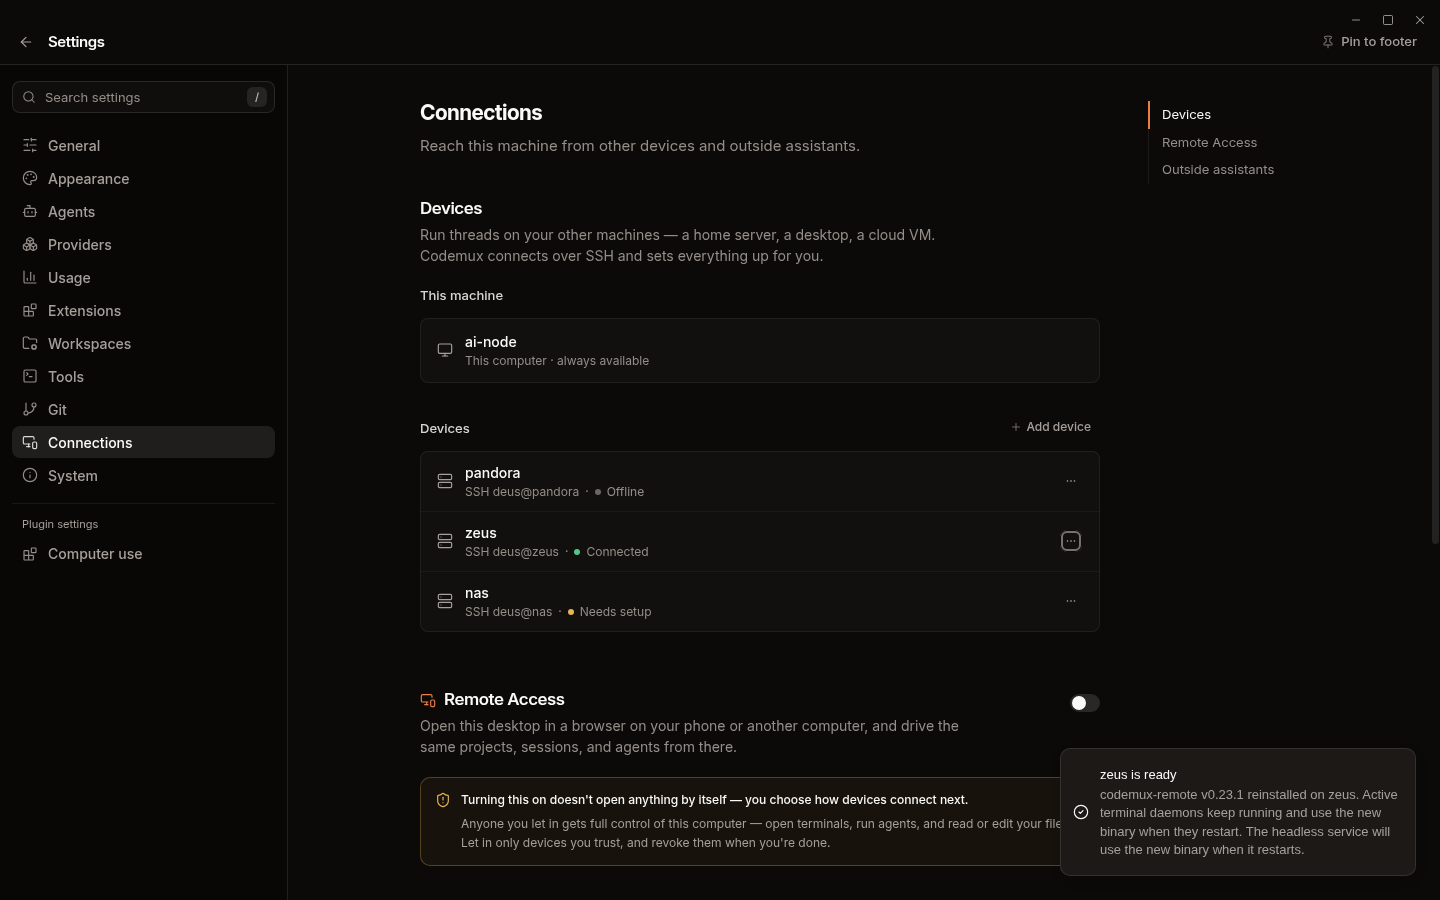
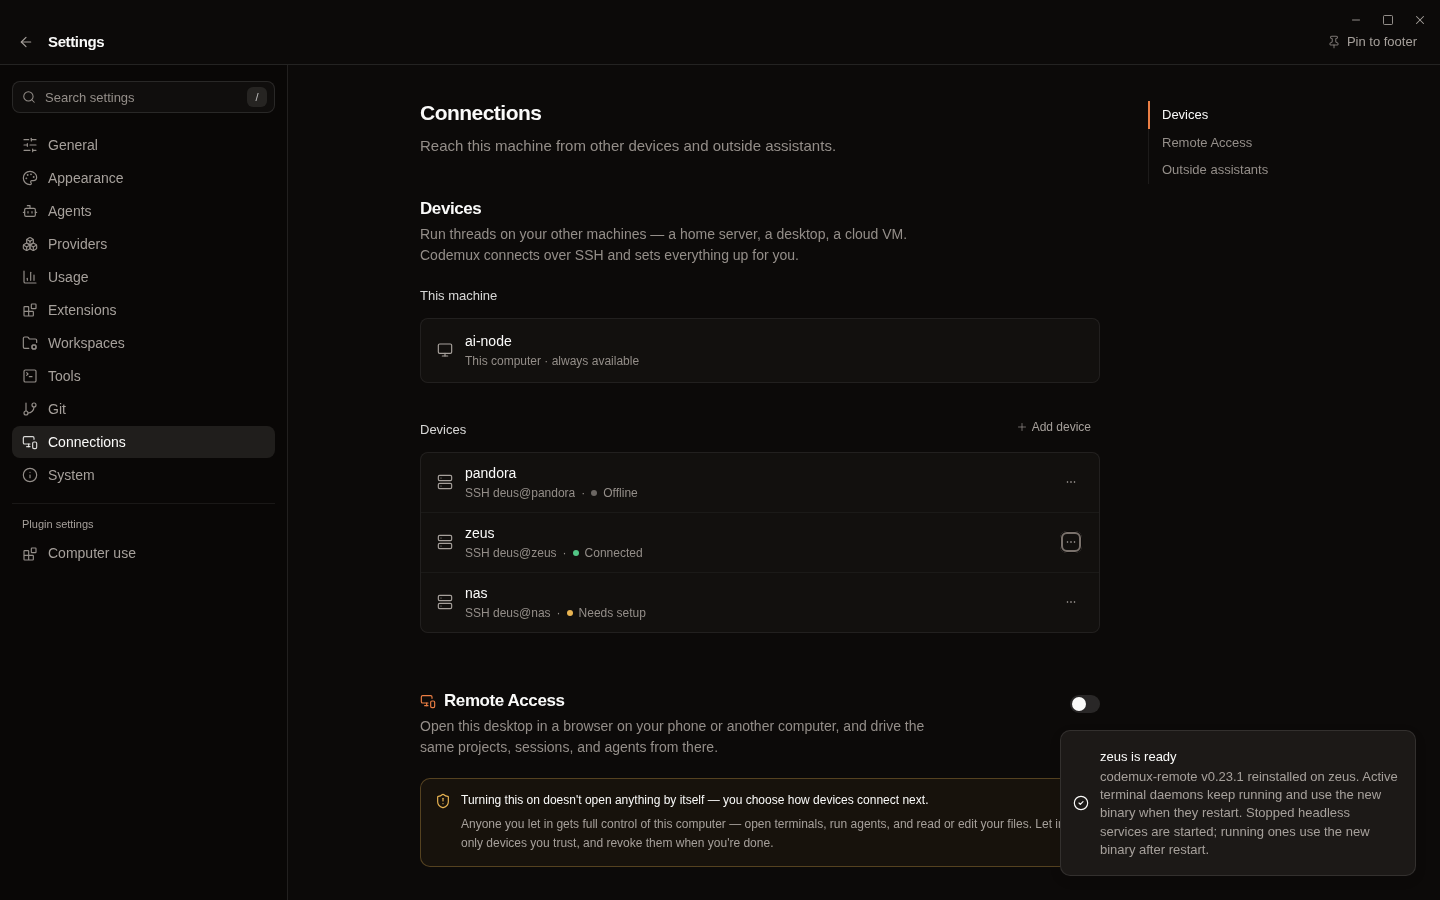
fix(remote): preserve sessions when repairing host service

diff --git a/src/dev/tauri-mock.ts b/src/dev/tauri-mock.ts
@@ -7341,7 +7341,7 @@ const handlers: Record<string, Handler> = {
       message:
         `codemux-remote v${MOCK_REMOTE_VERSION} reinstalled on ${host.name}. ` +
         "Active terminal daemons keep running and use the new binary when they restart. " +
-        "The headless service will use the new binary when it restarts.",
+        "Stopped headless services are started; running ones use the new binary after restart.",
     };
   },
 

diff --git a/src-tauri/src/commands/hosts.rs b/src-tauri/src/commands/hosts.rs
@@ -455,14 +455,15 @@ pub async fn hosts_bootstrap_install<R: tauri::Runtime>(
                     _ => String::new(),
                 };
 
-                // Always provision the headless `serve` daemon. Unlike
-                // the scheduler this needs no auth token or server id —
-                // it's a per-host local control plane. After this
+                // Enable and start the headless `serve` daemon without
+                // restarting an already-running service or its terminals.
+                // Unlike the scheduler this needs no auth token or server
+                // id — it's a per-host local control plane. After this
                 // returns successfully, an MCP-capable agent on the host
                 // that the user points at `codemux-remote mcp` can use it.
                 // Same best-effort contract: a failure logs and is
                 // surfaced in the result message, doesn't fail bootstrap.
-                let serve_note = match crate::ssh::bootstrap::provision_serve(
+                let serve_note = match crate::ssh::bootstrap::ensure_serve_running(
                     &host.ssh_target,
                     "~/.local/bin/codemux-remote",
                     std::time::Duration::from_secs(30),
@@ -530,7 +531,7 @@ pub struct HostBootstrapResult {
 #[cfg(unix)]
 pub(crate) struct RemoteReinstallOutcome {
     version: String,
-    serve_restarted: bool,
+    serve_enabled: bool,
 }
 
 /// After a successful install the device is ready: show it online now,
@@ -575,10 +576,10 @@ pub async fn hosts_reinstall_remote<R: tauri::Runtime>(
         Ok(match force_reinstall_remote_binary(&app, &host).await {
             Ok(outcome) => {
                 mark_host_ready(&app, host.id);
-                let serve_note = if outcome.serve_restarted {
-                    "The headless service restarted."
+                let serve_note = if outcome.serve_enabled {
+                    "Stopped headless services are started; running ones use the new binary after restart."
                 } else {
-                    "The headless service will use the new binary when it restarts."
+                    "The headless service could not be enabled; see logs."
                 };
                 HostBootstrapResult {
                     ok: true,
@@ -1687,9 +1688,8 @@ pub(crate) async fn ensure_remote_binary_current<R: tauri::Runtime>(
 /// built bits onto the host during development.
 ///
 /// Steps: probe uname → atomically upload and verify the bundled binary →
-/// restart the headless `serve` daemon only when it has confirmed zero live
-/// terminals. Existing PTY daemons keep their running sessions and use the
-/// new binary after they exit and restart.
+/// enable and start the headless `serve` daemon if stopped. Running services
+/// and PTY daemons keep their sessions and use the new binary when restarted.
 #[cfg(unix)]
 pub(crate) async fn force_reinstall_remote_binary<R: tauri::Runtime>(
     app: &tauri::AppHandle<R>,
@@ -1746,52 +1746,27 @@ pub(crate) async fn force_reinstall_remote_binary<R: tauri::Runtime>(
         }
     };
 
-    // Step 3: a service restart can end host-side terminals. Reuse the
-    // upgrade path's session probe so an explicit reinstall also preserves
-    // live sessions. An unknown count defers the restart as well. A failed
-    // restart remains best-effort: the binary on disk is current and takes
-    // effect on the next restart.
-    let live_sessions = crate::hosts_upgrade::probe_live_host_sessions(&host.ssh_target).await;
-    let serve_restarted = if should_restart_serve(live_sessions) {
-        match crate::ssh::bootstrap::provision_serve(
-            &host.ssh_target,
-            "~/.local/bin/codemux-remote",
-            std::time::Duration::from_secs(30),
-        )
-        .await
-        {
-            Ok(()) => {
-                eprintln!("[hosts] re-provisioned codemux-remote.service on {}", host.name);
-                true
-            }
-            Err(error) => {
-                eprintln!(
-                    "[hosts] re-provisioning serve on {} after reinstall failed (continuing): {error}",
-                    host.name
-                );
-                false
-            }
-        }
-    } else {
-        match live_sessions {
-            Some(n) => eprintln!(
-                "[hosts] deferred serve restart on {} to preserve {n} live terminal(s)",
+    // Step 3: `enable --now` starts a stopped service, including a missing
+    // unit repaired by this install, but never restarts an active one. A
+    // failure is best-effort because the binary on disk is already current.
+    let serve_enabled = match crate::ssh::bootstrap::ensure_serve_running(
+        &host.ssh_target,
+        "~/.local/bin/codemux-remote",
+        std::time::Duration::from_secs(30),
+    )
+    .await
+    {
+        Ok(()) => true,
+        Err(error) => {
+            eprintln!(
+                "[hosts] enabling serve on {} after reinstall failed (continuing): {error}",
                 host.name
-            ),
-            None => eprintln!(
-                "[hosts] deferred serve restart on {} because live terminal count is unknown",
-                host.name
-            ),
+            );
+            false
         }
-        false
     };
 
-    Ok(RemoteReinstallOutcome { version: reported_version, serve_restarted })
-}
-
-#[cfg(unix)]
-fn should_restart_serve(live_sessions: Option<u64>) -> bool {
-    matches!(live_sessions, Some(0))
+    Ok(RemoteReinstallOutcome { version: reported_version, serve_enabled })
 }
 
 /// Stash the synced OpenCode session id into the adapter captures of the
@@ -1885,14 +1860,6 @@ fn terminate_workspace_sessions<R: tauri::Runtime>(
 #[cfg(test)]
 mod tests {
     use super::{interpret_github_probe, validate_host_fields};
-
-    #[cfg(unix)]
-    #[test]
-    fn reinstall_restarts_serve_only_when_no_sessions_are_confirmed() {
-        assert!(super::should_restart_serve(Some(0)));
-        assert!(!super::should_restart_serve(Some(1)));
-        assert!(!super::should_restart_serve(None));
-    }
 
     #[test]
     fn host_fields_are_trimmed_and_checked() {

diff --git a/src-tauri/src/ssh/bootstrap.rs b/src-tauri/src/ssh/bootstrap.rs
@@ -427,7 +427,9 @@ pub async fn provision_scheduler(
     .map_err(|e| format!("enabling the scheduler service: {e}"))
 }
 
-/// Provision the headless `codemux-remote serve` daemon on a host.
+/// Provision the headless `codemux-remote serve` daemon on a host and restart
+/// it onto the newly installed binary. Call only when the caller can safely
+/// restart an existing service.
 ///
 /// Installs a systemd **user** unit that runs `codemux-remote serve`,
 /// enables lingering so it survives logout and reboot, and starts it.
@@ -444,6 +446,57 @@ pub async fn provision_serve(
     ssh_target: &str,
     remote_install_path: &str,
     deadline: Duration,
+) -> Result<(), String> {
+    provision_serve_with_activation(
+        ssh_target,
+        remote_install_path,
+        deadline,
+        ServeActivation::Restart,
+    )
+    .await
+}
+
+/// Install the unit and start it if stopped, without interrupting a running
+/// service or its terminals. Used by repair and manual reinstall paths where
+/// a status probe cannot safely authorize a later restart.
+pub async fn ensure_serve_running(
+    ssh_target: &str,
+    remote_install_path: &str,
+    deadline: Duration,
+) -> Result<(), String> {
+    provision_serve_with_activation(
+        ssh_target,
+        remote_install_path,
+        deadline,
+        ServeActivation::StartIfStopped,
+    )
+    .await
+}
+
+#[derive(Clone, Copy)]
+enum ServeActivation {
+    StartIfStopped,
+    Restart,
+}
+
+fn serve_activation_script(unit: &str, activation: ServeActivation) -> String {
+    let start = match activation {
+        ServeActivation::StartIfStopped => format!("systemctl --user enable --now {unit}"),
+        ServeActivation::Restart => format!(
+            "systemctl --user enable {unit} && systemctl --user restart {unit}"
+        ),
+    };
+    format!(
+        "loginctl enable-linger \"$USER\" >/dev/null 2>&1; \
+         systemctl --user daemon-reload && {start}"
+    )
+}
+
+async fn provision_serve_with_activation(
+    ssh_target: &str,
+    remote_install_path: &str,
+    deadline: Duration,
+    activation: ServeActivation,
 ) -> Result<(), String> {
     use crate::automations::service;
 
@@ -463,13 +516,6 @@ pub async fn provision_serve(
     .await
     .map_err(|e| format!("writing serve systemd unit: {e}"))?;
 
-    // `enable + restart` (not `enable --now`) is intentional: it makes
-    // this function correct for both first install AND upgrade. On
-    // first install, restart of an inactive unit is identical to
-    // start. On upgrade, the running daemon is killed and respawned
-    // from the new binary on disk — without this, an upgraded binary
-    // wouldn't take effect until the next host reboot or manual
-    // `systemctl --user restart`.
     run_with_timeout(
         Command::new("ssh")
             .arg("-o")
@@ -477,13 +523,7 @@ pub async fn provision_serve(
             .arg("-o")
             .arg("ConnectTimeout=10")
             .arg(ssh_target)
-            .arg(format!(
-                "loginctl enable-linger \"$USER\" >/dev/null 2>&1; \
-                 systemctl --user daemon-reload && \
-                 systemctl --user enable {unit} && \
-                 systemctl --user restart {unit}",
-                unit = service::SERVE_SYSTEMD_UNIT_NAME
-            )),
+            .arg(serve_activation_script(service::SERVE_SYSTEMD_UNIT_NAME, activation)),
         deadline,
     )
     .await
@@ -762,6 +802,17 @@ async fn ssh_write_file(
 #[cfg(test)]
 mod tests {
     use super::*;
+
+    #[test]
+    fn repair_activation_starts_stopped_service_without_restarting_running_service() {
+        let script = serve_activation_script(
+            "codemux-remote.service",
+            ServeActivation::StartIfStopped,
+        );
+        assert!(script.contains("systemctl --user daemon-reload"));
+        assert!(script.contains("systemctl --user enable --now codemux-remote.service"));
+        assert!(!script.contains("systemctl --user restart"));
+    }
 
     #[test]
     fn target_for_uname_covers_all_four_release_targets() {

diff --git a/src-tauri/src/hosts_upgrade.rs b/src-tauri/src/hosts_upgrade.rs
@@ -437,9 +437,10 @@ async fn check_and_upgrade<R: Runtime>(
 /// its JSON output. Returns:
 /// - `Some(n)` — the daemon answered (`n` may be 0).
 /// - `None` — couldn't determine (daemon down, ssh error, or an OLD daemon
-///   binary whose `serve status` predates the field). Callers choose whether
-///   an unknown count should defer a restart.
-pub(crate) async fn probe_live_host_sessions(ssh_target: &str) -> Option<u64> {
+///   binary whose `serve status` predates the field). Callers treat `None`
+///   as "no confirmed live sessions → safe to restart", because a daemon we
+///   can't reach has nothing to lose by restarting.
+async fn probe_live_host_sessions(ssh_target: &str) -> Option<u64> {
     use std::process::Stdio;
     let cmd_str = live_sessions_script();
     let output = tokio::time::timeout(Duration::from_secs(12), async {
